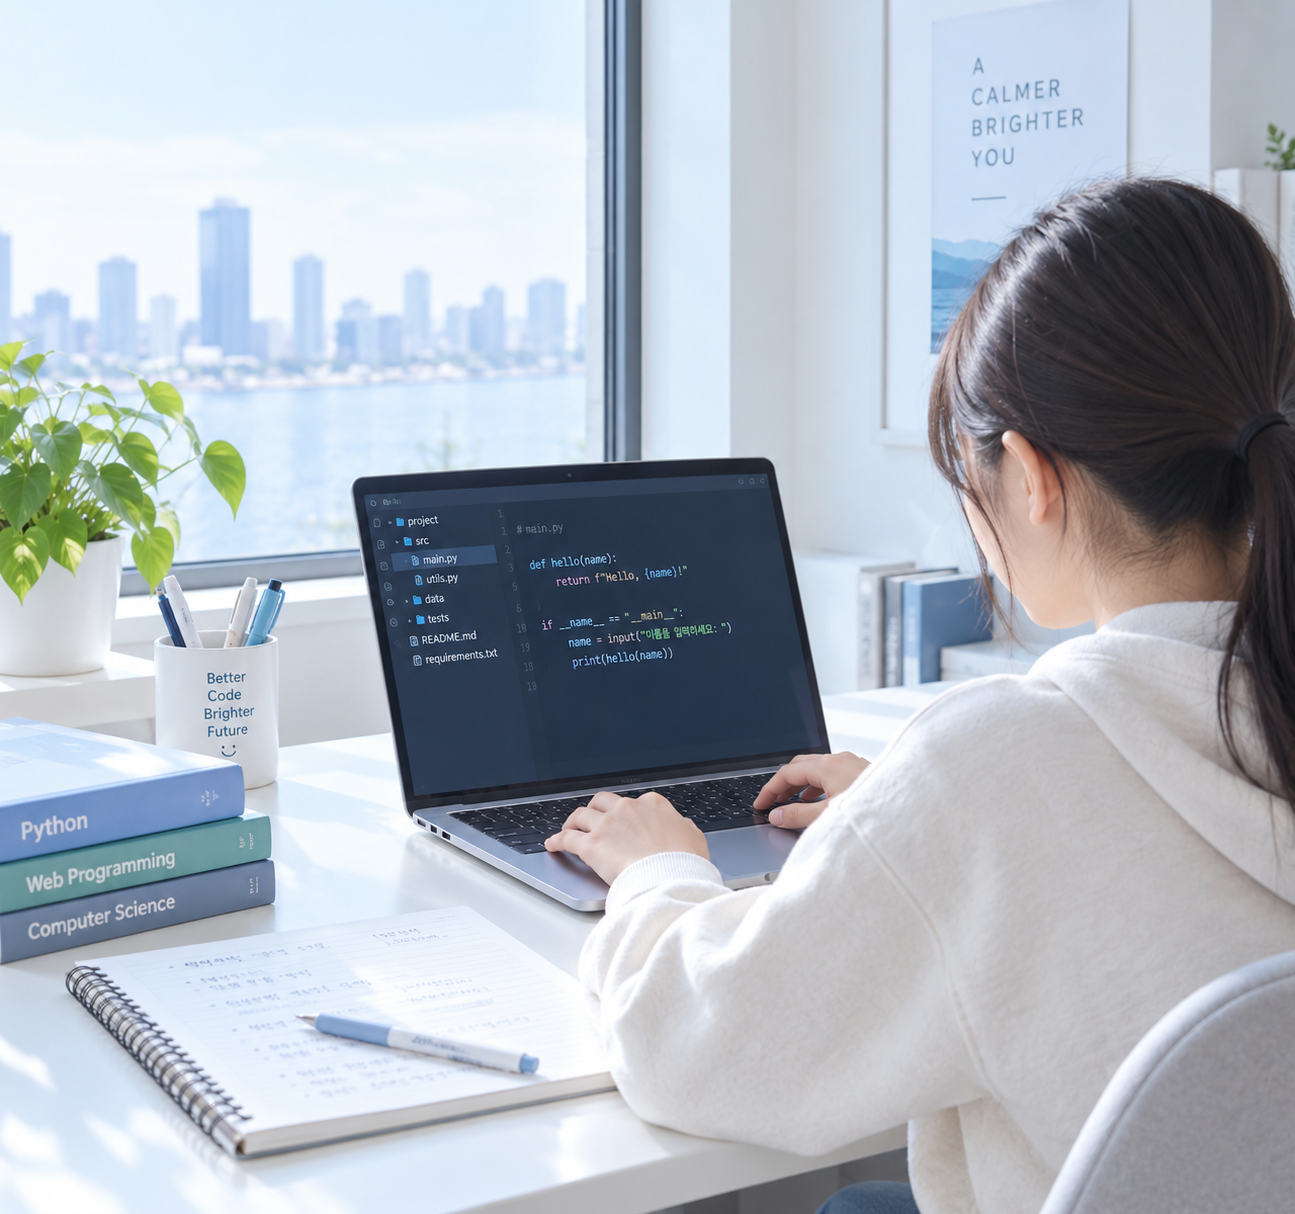
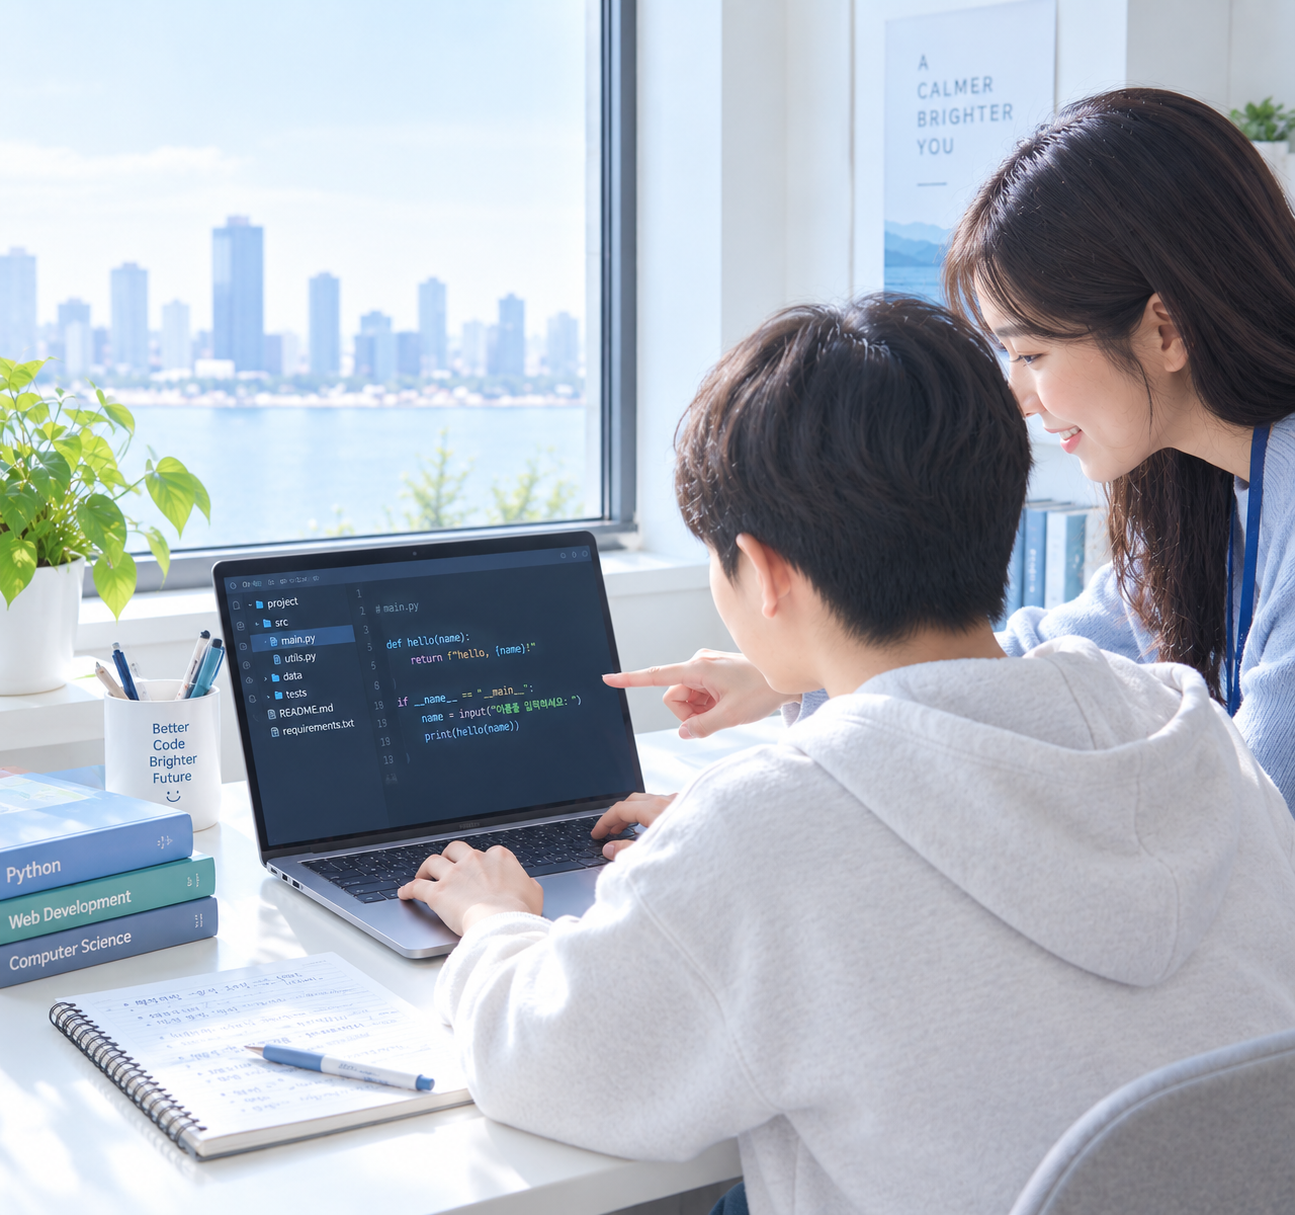
Refine hero highlights and highlighted course card
Swap the hero photo for the teacher-student shot, drop the boxed
pill badges in favor of a plain dot-separated line, and give the
highlighted curriculum card a subtle white-to-red gradient instead
of flat brand red.

diff --git a/src/components/sections/hero.tsx b/src/components/sections/hero.tsx
@@ -14,17 +14,15 @@ export function Hero() {
     <section className="bg-background">
       <div className="mx-auto grid max-w-6xl items-center gap-12 px-6 py-18 lg:grid-cols-12 lg:py-24">
         <div className="lg:col-span-7">
-          <ul className="flex flex-wrap items-center gap-2">
-            {HIGHLIGHTS.map((item) => (
-              <li
-                key={item}
-                className="rounded-full border border-border bg-paper px-3 py-1.5 text-[13px] font-semibold text-ink/80"
-              >
+          <ul className="flex flex-wrap items-center gap-x-3 gap-y-1 text-[13px] font-semibold text-ink/50">
+            {HIGHLIGHTS.map((item, index) => (
+              <li key={item} className="flex items-center gap-3">
+                {index > 0 && <span aria-hidden className="text-ink/25">·</span>}
                 {item}
               </li>
             ))}
           </ul>
-          <h1 className="mt-6 text-4xl leading-[1.15] font-black tracking-tight text-balance text-ink lg:text-6xl">
+          <h1 className="mt-5 text-4xl leading-[1.15] font-black tracking-tight text-balance text-ink lg:text-6xl">
             깨끗한 첫 장에서,
             <br />
             <span className="text-brand">코딩을 시작합니다</span>

diff --git a/src/components/sections/courses.tsx b/src/components/sections/courses.tsx
@@ -44,12 +44,18 @@ export function Courses() {
             <div
               key={course.title}
               className={cn(
-                "flex flex-col gap-4 rounded-[18px] p-7",
+                "relative isolate flex flex-col gap-4 overflow-hidden rounded-[18px] p-7",
                 course.highlight
-                  ? "bg-brand text-primary-foreground"
+                  ? "bg-gradient-to-br from-brand to-[#B8261B] text-primary-foreground"
                   : "border border-border bg-cool transition-colors hover:border-brand",
               )}
             >
+              {course.highlight && (
+                <div
+                  aria-hidden
+                  className="pointer-events-none absolute inset-0 -z-10 bg-[radial-gradient(85%_65%_at_100%_0%,rgba(255,255,255,0.4),transparent_60%)]"
+                />
+              )}
               <span
                 className={cn(
                   "font-mono text-sm font-bold",
